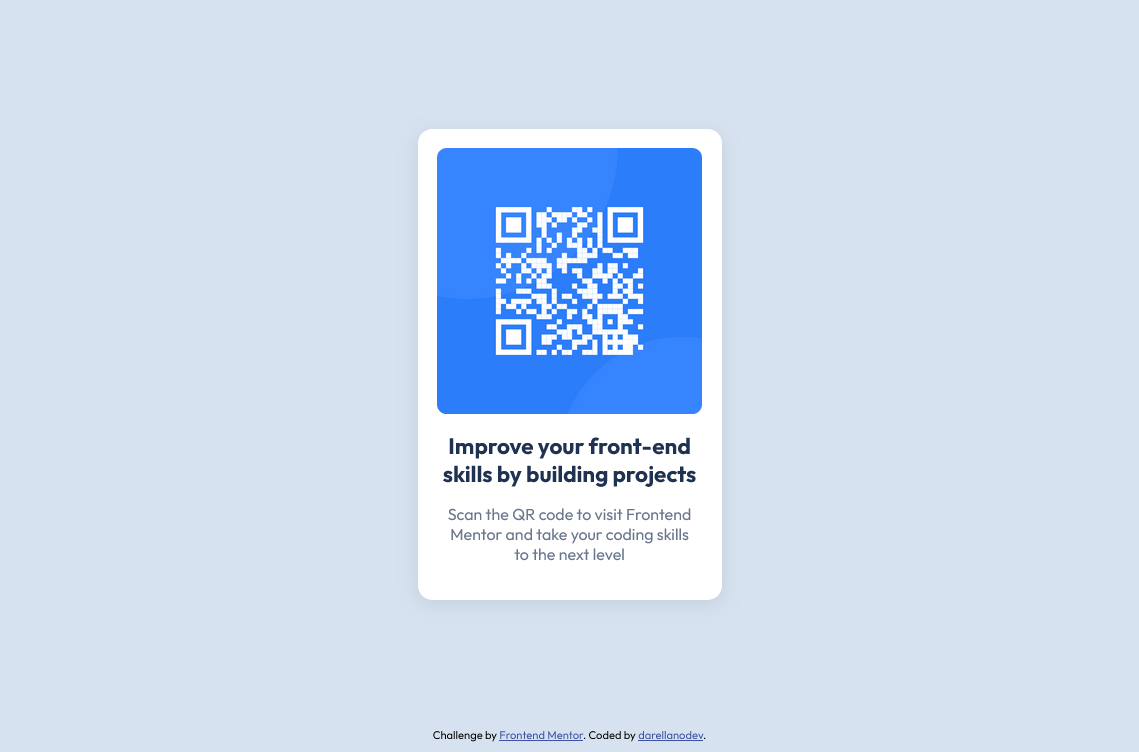
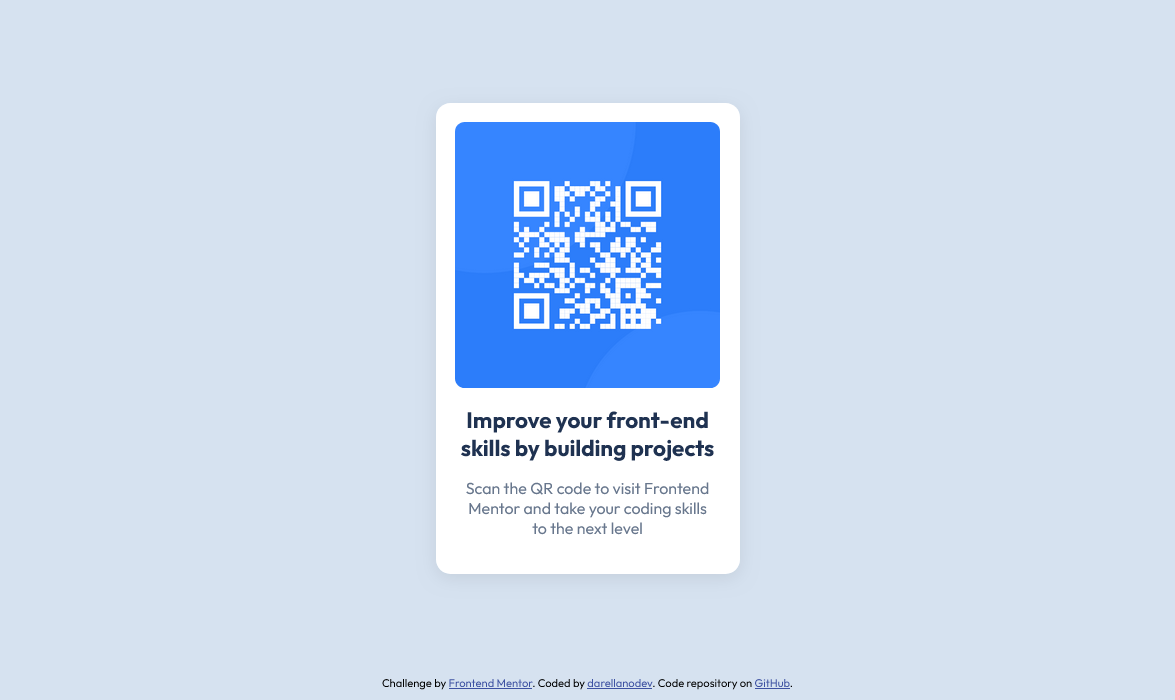
fix: Modify the URL of the repo and update the screenshot image (closes #1)

Changed region(s): [[0.3687, 0.15, 0.6453, 0.84], [0.4302, 0.24, 0.5838, 0.48], [0.338, 0.96, 0.676, 0.99]]

diff --git a/01-qr-code-component/README.md b/01-qr-code-component/README.md
@@ -24,7 +24,7 @@ This is a solution to the [QR code component challenge on Frontend Mentor](https
 
 ### Links
 
-- Solution URL: [GitHub repository](https://github.com/darellanodev/fm-projects/01-qr-code-component)
+- Solution URL: [GitHub repository](https://github.com/darellanodev/fm-projects/tree/main/01-qr-code-component)
 - Live Site URL: [Live site](https://darellanodev.github.io/fm-projects/01-qr-code-component)
 
 ## My process
